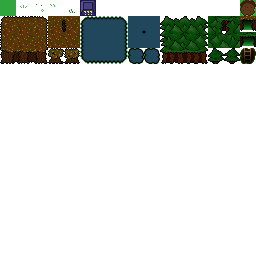
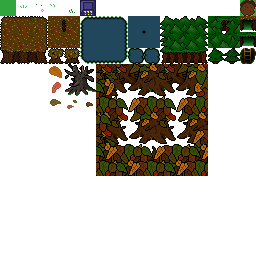
my, what big trees you have

diff --git a/README.md b/README.md
@@ -17,9 +17,9 @@ I want this thing ready to show off at GDEX 2023. Anything not necessary for dem
 ### February
 
 - [x] Sound effect for map-reset.
-- [ ] Coloring book, violin pic: Make the hat less dicky.
+- [x] Coloring book, violin pic: Make the hat less dicky.
 - [ ] Fresh graphics
-- - [ ] Combining trees, but larger than one tile.
+- - [x] Combining trees, but larger than one tile.
 - - [ ] Caves.
 - - [ ] Village.
 - [x] Enter a map over water, then get hurt twice to force a reset -- you get stuck toggling between the two maps.
@@ -59,6 +59,7 @@ I want this thing ready to show off at GDEX 2023. Anything not necessary for dem
 - [ ] Ensure audio doesn't get stuck on after an exception. like, actually handle exceptions nicely.
 - [ ] Persist plants and sketches across map loads.
 - [ ] UI for saved game management.
+- [ ] Physics flag to control whether chalk is allowed? Consider the black octopus tree, chalk looks weird like it's floating in air.
 
 ### May
 
@@ -116,3 +117,14 @@ I want this thing ready to show off at GDEX 2023. Anything not necessary for dem
 - [ ] Move Map decoding out of DataService into a class of its own.
 - [ ] Finish everything by Halloween.
 - [ ] verify: Check neighbor edges cell by cell
+
+### Disambiguation
+
+There are other things called Full Moon, which are not this game.
+
+- Bart Bonte's 2009 Flash game: https://www.bartbonte.com/fullmoon/
+- ^ this is really cool
+- The tabletop gaming store in Terre Haute: https://www.fullmoongames.com/
+- Claude Leroy's nice-looking card game: https://boardgamegeek.com/boardgame/136523/full-moon
+- Many other google hits containing "Full Moon". But hey, it's a reasonably common phrase.
+- I think we're OK step-on-toes-wise.
